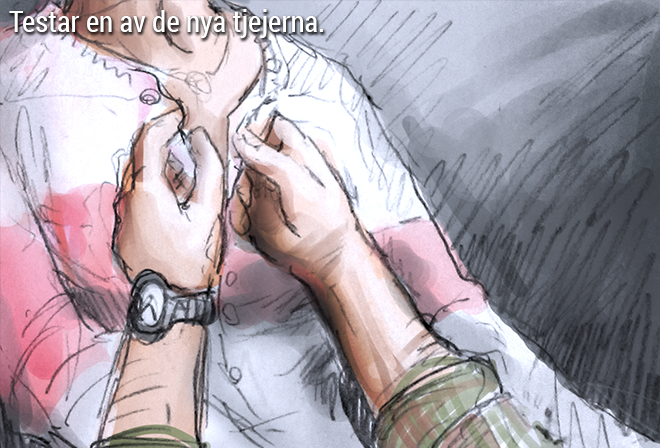
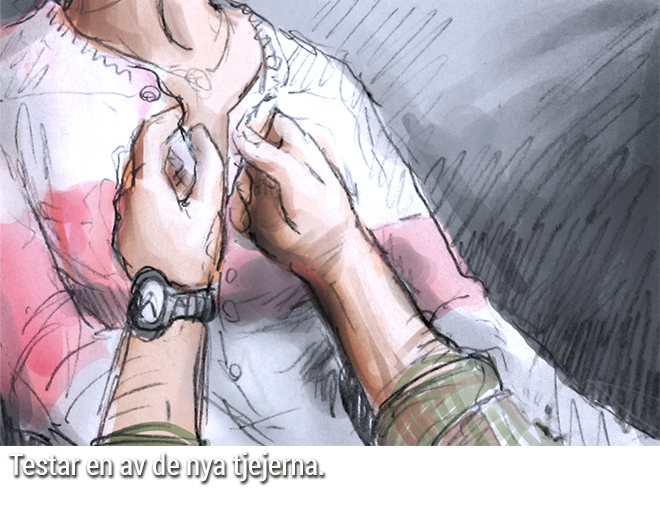
uppdaterar alla Bilder i serien i case 2 med texter nedanför med transparent bakgrund. Funkar bra i testet.

diff --git a/js/Case1h_content.js b/js/Case1h_content.js
@@ -1,0 +1,27 @@
+var Case1h = (function(self){
+self.ID = {"text":"Case1h"};
+
+self.preload = {"images":
+[{"url":"bg2.jpg"},
+]
+};
+
+self.topLeftImage = {"url":"img/case_color_splash.png"};
+
+self.nodes = {"content": 
+	[{  	"ID": "1.2.3",
+		"type":"info",
+		"background":{"type":"image","url":"bg2.jpg"},
+		"videos" : [{"videoURL":"http://player.vimeo.com/video/68027628", "source" : "vimeo"}], 
+		"title":"filmen om horan",
+	     "animation":"right",
+		 "showNextButton":"5000",
+		 "callback":"Case1_HUB"
+	}, 
+    ]
+};
+
+
+	return self;
+
+})({});
